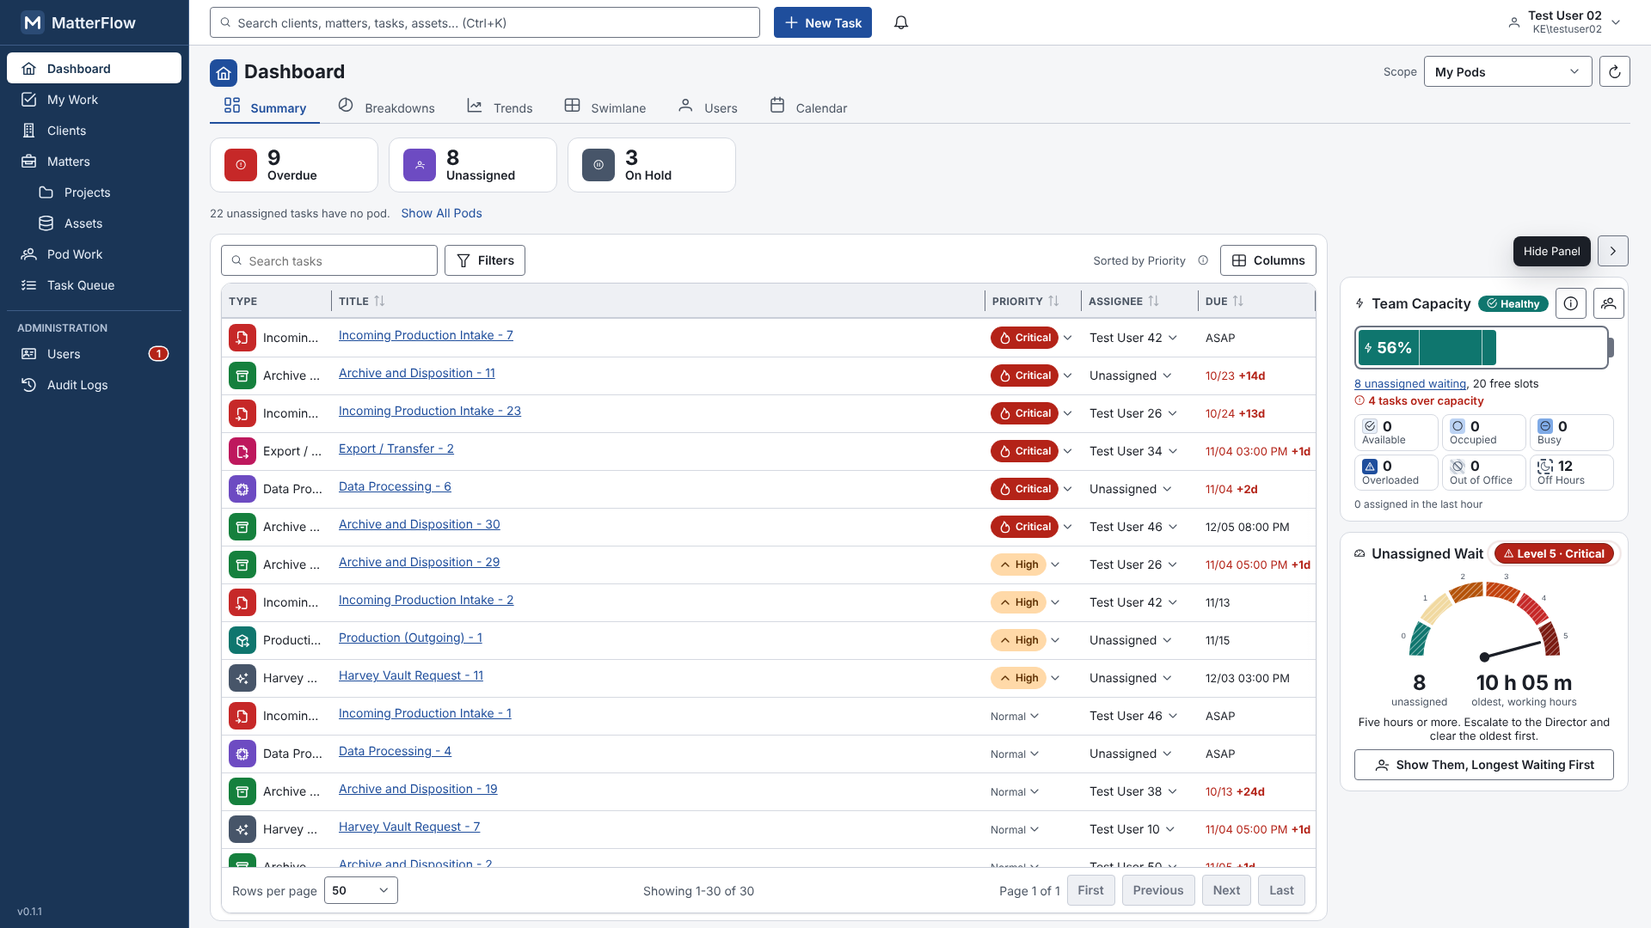
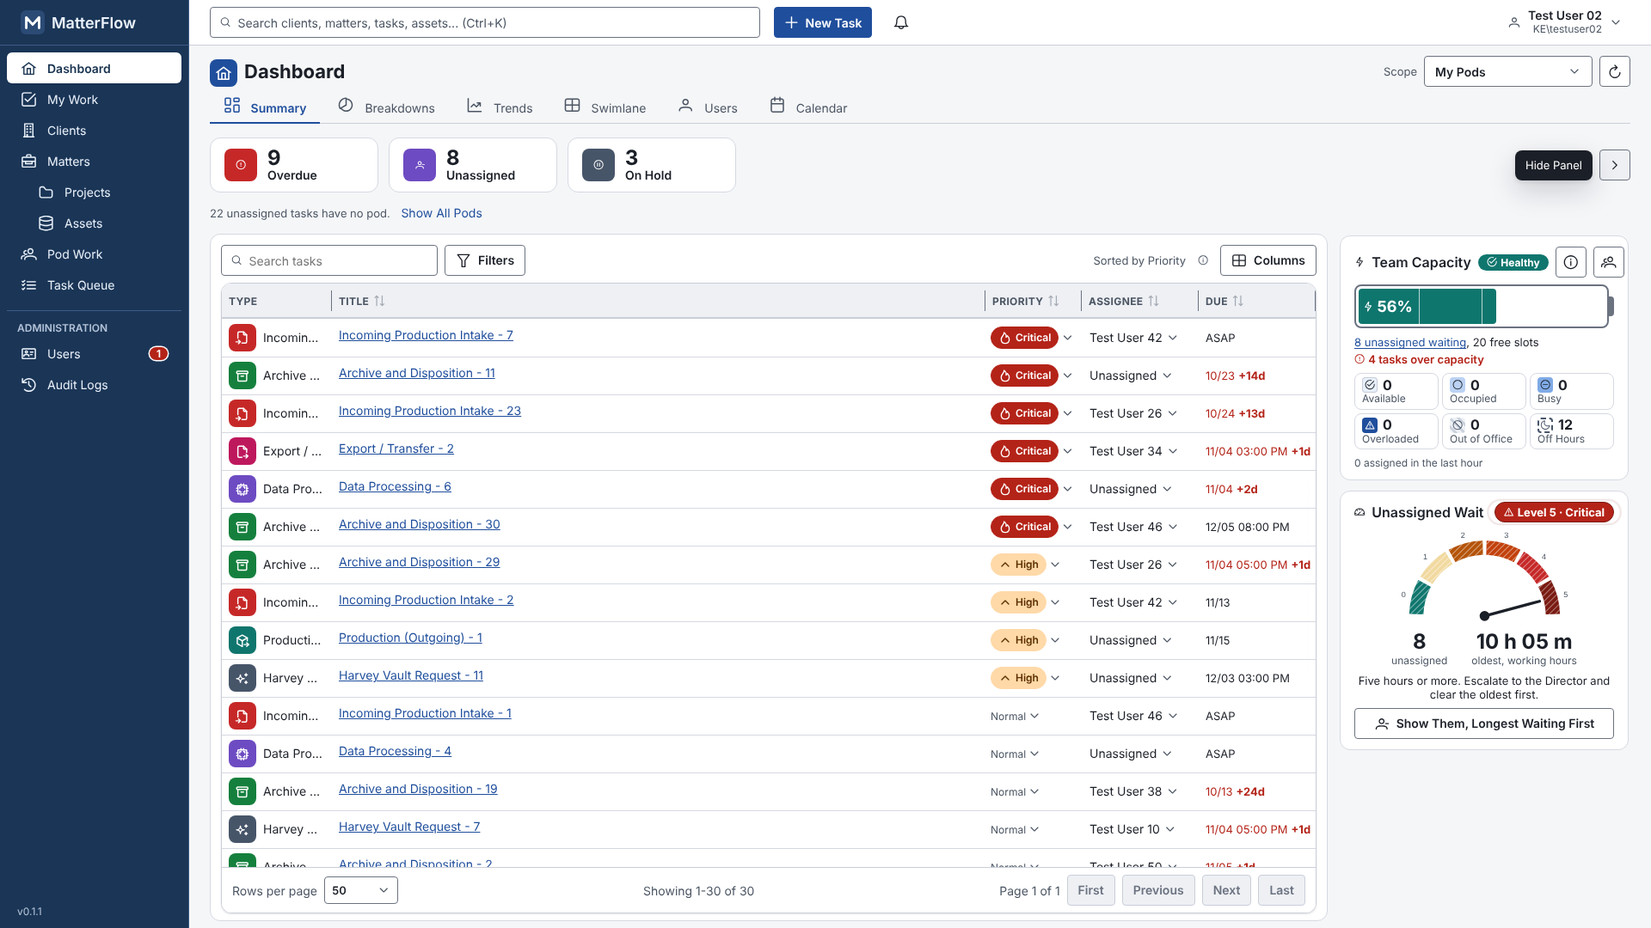
UI2 #1233 one Hide Panel / Show Panel button at the far right of the cards row (owner correction)
- Dashboard > Summary > cards row (Overdue, Unassigned, On Hold): the single Hide Panel / Show Panel icon button now sits at the far right end of this row, directly above the right column, and stays in exactly the same place in both states.
- Dashboard > Summary > right column (Team Capacity, Unassigned Wait): the second button inside the column is removed, so the column starts right under the cards row again.
- Dashboard > Summary > panel hidden: the compact battery and gauge sit on the cards row to the left of the button.
- Specs and the end-to-end test check that the button has the same position in both states; guideline D-46 and theme guide 11.4 updated; screenshots retaken.

Claude-Session: https://claude.ai/code/session_01GjQ3L6gEego4PwsSfbngaa

Changed region(s): [[0.8125, 0.2444, 1.0, 0.8556], [0.9062, 0.1528, 0.9688, 0.2139], [0.9688, 0.3667, 1.0, 0.3972]]

diff --git a/frontend/src/app/features/dashboard/summary/dash-summary-tab.ts b/frontend/src/app/features/dashboard/summary/dash-summary-tab.ts
@@ -1,9 +1,6 @@
 import {
   ChangeDetectionStrategy,
   Component,
-  ElementRef,
-  Injector,
-  afterNextRender,
   computed,
   inject,
   input,
@@ -24,7 +21,7 @@ import { DashV4Api } from './dash-v4-api';
 /**
  * The Summary tab of the Dashboard for anyone with Dashboard.ViewSummary (epic #1063, DB-03; the Technician's queue is the page's own view). Under the tabs: three Needs attention cards
  * that filter the grid; below, the task grid on the left (shared list standard) and a fixed-width right column with the capacity battery (Dashboard.ViewUsers) and the unassigned gauge
- * (Dashboard.ViewSummary). A Hide Panel icon button at the top right of that column hides it (#1233): the grid takes the full width and the compact battery and gauge sit on the right of the cards row, with a Show Panel button at the far end; the choice is remembered per user (`DashboardPrefs`). The page never scrolls on a desktop window; only the grid body and the right column do. Under 768 px (or on a very short window) it is one column: cards,
+ * (Dashboard.ViewSummary). ONE Hide Panel / Show Panel icon button at the far right of the cards row (it never moves) hides the column (#1233): the grid takes the full width and the compact battery and gauge sit on that row to the left of the button; the choice is remembered per user (`DashboardPrefs`). The page never scrolls on a desktop window; only the grid body and the right column do. Under 768 px (or on a very short window) it is one column: cards,
  * battery and gauge, then the tasks as cards. The page owns the data (it reads the summary and the Scope); this component draws it and reports what the person did.
  */
 @Component({
@@ -35,24 +32,31 @@ import { DashV4Api } from './dash-v4-api';
   template: `
     <div class="top" data-dash-top>
       <mf-dash-cards [counts]="counts()" [selected]="card()" (pick)="cardPick.emit($event)" />
-      @if (collapsed()) {
-        <div class="tright" data-dash-compact>
-          <mf-dash-compact
-            [capacity]="canUsers() ? capacity() : null"
-            [gauge]="gauge()"
-            (show)="showUnassigned()"
-          />
+      @if (showRight()) {
+        <div class="tright" data-dash-compact-row>
+          @if (collapsed()) {
+            <mf-dash-compact
+              data-dash-compact
+              [capacity]="canUsers() ? capacity() : null"
+              [gauge]="gauge()"
+              (show)="showUnassigned()"
+            />
+          }
           <button
             type="button"
             class="mf-btn mf-btn--icon"
-            data-panel-expand
-            aria-label="Show Panel"
-            mfTip="Show Panel"
+            data-panel-toggle
+            [attr.aria-label]="collapsed() ? 'Show Panel' : 'Hide Panel'"
+            [mfTip]="collapsed() ? 'Show Panel' : 'Hide Panel'"
             aria-controls="dash-rcol"
-            [attr.aria-expanded]="false"
-            (click)="setCollapsed(false)"
+            [attr.aria-expanded]="!collapsed()"
+            (click)="setCollapsed(!collapsed())"
           >
-            <i class="pi pi-chevron-left" aria-hidden="true"></i>
+            <i
+              class="pi"
+              [class]="collapsed() ? 'pi-chevron-left' : 'pi-chevron-right'"
+              aria-hidden="true"
+            ></i>
           </button>
         </div>
       }
@@ -81,20 +85,6 @@ import { DashV4Api } from './dash-v4-api';
       />
       @if (showRight()) {
         <div class="rcol" id="dash-rcol" [class.rcol--off]="collapsed()" data-dash-rcol>
-          <div class="rhd">
-            <button
-              type="button"
-              class="mf-btn mf-btn--icon"
-              data-panel-collapse
-              aria-label="Hide Panel"
-              mfTip="Hide Panel"
-              aria-controls="dash-rcol"
-              [attr.aria-expanded]="!collapsed()"
-              (click)="setCollapsed(true)"
-            >
-              <i class="pi pi-chevron-right" aria-hidden="true"></i>
-            </button>
-          </div>
           @if (canUsers()) {
             <mf-dash-battery
               [scope]="scope()"
@@ -141,11 +131,6 @@ import { DashV4Api } from './dash-v4-api';
     }
     .tright .mf-btn {
       flex: none;
-    }
-    .rhd {
-      display: flex;
-      flex: none;
-      justify-content: flex-end;
     }
     .rcol.rcol--off {
       display: none;
@@ -198,7 +183,6 @@ import { DashV4Api } from './dash-v4-api';
       .rcol.rcol--off {
         display: flex;
       }
-      .rhd,
       .tright {
         display: none;
       }
@@ -209,8 +193,6 @@ export class DashSummaryTab {
   private readonly auth = inject(AuthStore);
   private readonly v4 = inject(DashV4Api);
   private readonly prefs = inject(DashboardPrefs);
-  private readonly host = inject<ElementRef<HTMLElement>>(ElementRef);
-  private readonly injector = inject(Injector);
 
   readonly summary = input.required<DashboardSummary>();
   /** The page scope (`all`, `mine` or a pod id). */
@@ -247,16 +229,9 @@ export class DashSummaryTab {
     this.prefs.ensureLoaded();
   }
 
-  /** Hide or show the right panel; focus follows to the other button, because the one that was pressed is gone. */
+  /** Hide or show the right panel. The one toggle button stays where it is (same element), so focus stays on it. */
   protected setCollapsed(collapsed: boolean): void {
     this.prefs.setPanelCollapsed(collapsed);
-    afterNextRender(
-      () =>
-        this.host.nativeElement
-          .querySelector<HTMLElement>(collapsed ? '[data-panel-expand]' : '[data-panel-collapse]')
-          ?.focus(),
-      { injector: this.injector },
-    );
   }
 
   protected showAll(event: Event): void {

diff --git a/frontend/src/app/features/dashboard/pages/dashboard-page.spec.ts b/frontend/src/app/features/dashboard/pages/dashboard-page.spec.ts
@@ -429,33 +429,34 @@ describe('DashboardPage', () => {
     });
 
     describe('the right panel can be hidden (#1233)', () => {
-      const hide = (el: HTMLElement) =>
-        el.querySelector<HTMLButtonElement>('[data-panel-collapse]')!;
-      const show = (el: HTMLElement) => el.querySelector<HTMLButtonElement>('[data-panel-expand]');
+      const toggle = (el: HTMLElement) =>
+        el.querySelector<HTMLButtonElement>('[data-panel-toggle]')!;
       const rcol = (el: HTMLElement) => el.querySelector<HTMLElement>('[data-dash-rcol]')!;
 
-      it('starts shown: a Hide Panel icon button at the top of the column with aria-expanded and aria-controls, and no compact widgets', async () => {
+      it('starts shown: one Hide Panel icon button at the end of the cards row with aria-expanded and aria-controls, and no compact widgets', async () => {
         const el = await open();
-        const b = hide(el);
+        const b = toggle(el);
         expect(b.getAttribute('aria-label')).toBe('Hide Panel');
         expect(b.getAttribute('aria-expanded')).toBe('true');
         expect(b.getAttribute('aria-controls')).toBe(rcol(el).id);
-        expect(rcol(el).contains(b)).toBe(true);
+        expect(el.querySelector('[data-dash-top]')!.contains(b)).toBe(true);
+        expect(rcol(el).contains(b)).toBe(false);
+        expect(el.querySelectorAll('[data-panel-toggle]').length).toBe(1);
         expect(rcol(el).classList.contains('rcol--off')).toBe(false);
         expect(el.querySelector('[data-dash-compact]')).toBeNull();
-        expect(show(el)).toBeNull();
       });
 
-      it('hides the column, shows the compact battery and gauge with Show Panel on the cards row, and shows it again', async () => {
+      it('hides the column, shows the compact battery and gauge on the cards row left of the same button, and shows it again', async () => {
         const el = await open();
-        hide(el).click();
+        const b = toggle(el);
+        b.click();
         await settle();
         expect(rcol(el).classList.contains('rcol--off')).toBe(true);
         const row = el.querySelector('[data-dash-top]')!;
         expect(row.querySelector('[data-dash-cards]')).not.toBeNull();
         expect(row.querySelector('[data-compact-battery]')).not.toBeNull();
         expect(row.querySelector('[data-compact-gauge]')).not.toBeNull();
-        const b = show(el)!;
+        expect(toggle(el)).toBe(b);
         expect(b.getAttribute('aria-label')).toBe('Show Panel');
         expect(b.getAttribute('aria-expanded')).toBe('false');
         expect(b.getAttribute('aria-controls')).toBe(rcol(el).id);
@@ -463,38 +464,27 @@ describe('DashboardPage', () => {
         await settle();
         expect(rcol(el).classList.contains('rcol--off')).toBe(false);
         expect(el.querySelector('[data-dash-compact]')).toBeNull();
+        expect(b.getAttribute('aria-label')).toBe('Hide Panel');
       });
 
       it('remembers the choice per user in the existing Dashboard preference entry, and keeps the period there', async () => {
         const el = await open();
-        hide(el).click();
+        toggle(el).click();
         await settle();
         const key = Object.keys(localStorage).find((k) => k.startsWith('mf.dashboard.v2.'))!;
         expect(JSON.parse(localStorage.getItem(key)!)).toMatchObject({ panelCollapsed: true });
         TestBed.resetTestingModule();
         const again = await open();
         expect(rcol(again).classList.contains('rcol--off')).toBe(true);
-        expect(show(again)).not.toBeNull();
-        show(again)!.click();
+        expect(toggle(again).getAttribute('aria-label')).toBe('Show Panel');
+        toggle(again).click();
         await settle();
         expect(JSON.parse(localStorage.getItem(key)!)).not.toHaveProperty('panelCollapsed');
       });
 
-      it('moves focus to the other button, because the pressed one is gone', async () => {
-        const el = await open();
-        document.body.appendChild(el);
-        hide(el).click();
-        await settle();
-        expect(document.activeElement).toBe(show(el));
-        show(el)!.click();
-        await settle();
-        expect(document.activeElement).toBe(hide(el));
-        el.remove();
-      });
-
       it('the compact gauge does what the full gauge does: selects the Unassigned card, longest waiting first', async () => {
         const el = await open();
-        hide(el).click();
+        toggle(el).click();
         await settle();
         el.querySelector<HTMLButtonElement>('[data-compact-gauge]')!.click();
         await settle();
@@ -509,7 +499,7 @@ describe('DashboardPage', () => {
           'Dashboard.View',
           'Dashboard.ViewSummary',
         ]);
-        hide(el).click();
+        toggle(el).click();
         await settle();
         expect(el.querySelector('[data-compact-battery]')).toBeNull();
         expect(el.querySelector('[data-compact-gauge]')).not.toBeNull();

diff --git a/frontend/e2e/tests/dashboard-v4-summary.spec.ts b/frontend/e2e/tests/dashboard-v4-summary.spec.ts
@@ -220,12 +220,17 @@ test.describe('Summary v4', () => {
       await page.goto('/dashboard');
       const hide = page.getByRole('button', { name: 'Hide Panel', exact: true });
       await expect(hide).toHaveAttribute('aria-expanded', 'true');
+      const where = (await hide.boundingBox())!;
       await expect(page.locator('[data-dash-compact]')).toHaveCount(0);
       const shown = (await page.locator('mf-dash-grid').boundingBox())!.width;
       await hide.click();
       const expand = page.getByRole('button', { name: 'Show Panel', exact: true });
       await expect(expand).toHaveAttribute('aria-expanded', 'false');
       await expect(expand).toBeFocused();
+      // One button, one place: the same x and y in both states, at the far right of the cards row.
+      const moved = (await expand.boundingBox())!;
+      expect(Math.abs(moved.x - where.x)).toBeLessThanOrEqual(1);
+      expect(Math.abs(moved.y - where.y)).toBeLessThanOrEqual(1);
       await expect(page.locator('[data-dash-rcol]')).toBeHidden();
       await expect(page.locator('[data-compact-battery]')).toBeVisible();
       await expect(page.locator('[data-compact-gauge]')).toBeVisible();

diff --git a/docs/ux/theme-guide.md b/docs/ux/theme-guide.md
@@ -453,7 +453,7 @@ Rows per page 50   Showing 1-50 of 143   Page 1 of 3               |  8 of 12 ca
 | Type cell | the standard `type` column of `mf-task-table` | The same chip and type name as every task list (DB-10). |
 | Due cell | `mf-due-suffix-cell` (`shared/work-queue/due-suffix.ts`) | The numeric date (`NUMERIC_DATE`, `MM/DD hh:mm AM/PM`) and, only while overdue, a bold red suffix on the SAME line: `+9d` (days), `+7h` (under a day), `+<1h`. Today, tomorrow and later have no suffix. The words ("9 days overdue") are in the tooltip and in the accessible name, so red is never the only signal. The maths is the shared Due logic (`describeDueCell`). |
 | Assign cell | the Assignee column's `mf-row-edit` | An unassigned task shows "Unassigned" with the chevron, like an assigned row: the whole cell is the one control (accessible name "Unassigned: assign this task") and opens the shared assignee menu (`showStates`), which lists each person with the state icon and word and the load ("Busy, 2 open"). Without Task.Assign it is plain text. 409: "This task was changed by someone else. The row was reloaded." After a successful assign the row leaves the Unassigned view, focus moves to the next row, and the cards, gauge and battery are read again. |
-| Right panel collapse (#1233) | `mf-dash-summary` (`summary/dash-summary-tab.ts`), `mf-dash-compact` (`summary/dash-compact.ts`) | A **Hide Panel** icon button (`mf-btn mf-btn--icon`, chevron right, tooltip "Hide Panel", `aria-expanded`, `aria-controls="dash-rcol"`) is the first row of the right column. Hidden: the column is `display: none`, the grid is full width, and `mf-dash-compact` (compact battery 112 x 36 px with the remaining % and bolt, "N free slots", red "N over" only above zero; compact gauge 64 x 40 px with the level number, the level chip in the gauge's colour kinds (`gauge-level-css.ts`, shared with `mf-dash-gauge`) and the oldest wait) sits right aligned on the cards row with a **Show Panel** icon button (chevron left) at the far right. The cards row is the container `top`: under 1260 px the gauge chip loses its words, under 1060 px the battery its "free slots" text. The state is `DashboardPrefs.panelCollapsed` (per user, same stored entry as the period). The data is the full battery's last read and the summary's gauge block: no new request. |
+| Right panel collapse (#1233) | `mf-dash-summary` (`summary/dash-summary-tab.ts`), `mf-dash-compact` (`summary/dash-compact.ts`) | ONE icon button (`mf-btn mf-btn--icon`, `data-panel-toggle`, chevron right = **Hide Panel**, chevron left = **Show Panel**, tooltip and name follow the state, `aria-expanded`, `aria-controls="dash-rcol"`) at the far right of the cards row; it keeps the same x and y in both states. Hidden: the column is `display: none`, the grid is full width, and `mf-dash-compact` (compact battery 112 x 36 px with the remaining % and bolt, "N free slots", red "N over" only above zero; compact gauge 64 x 40 px with the level number, the level chip in the gauge's colour kinds (`gauge-level-css.ts`, shared with `mf-dash-gauge`) and the oldest wait) sits right aligned on the cards row, left of the button. The cards row is the container `top`: under 1260 px the gauge chip loses its words, under 1060 px the battery its "free slots" text. The state is `DashboardPrefs.panelCollapsed` (per user, same stored entry as the period). The data is the full battery's last read and the summary's gauge block: no new request. |
 | Capacity battery | `mf-dash-battery` (`summary/dash-battery.ts`) | ONE department indicator that shows the REMAINING capacity (DB-12, #1086): the fill and the number are the API's `freePercent`, so a full battery means plenty of free capacity. The percentage sits INSIDE the battery, as plain text without a ring next to a bolt icon, on a battery 51 px high (no separate big line; under 28 percent the number sits just after the short fill in the normal text colour). The People button is an icon-only button (`aria-label` and tooltip "People") on the title row, after the status chip and the info button. The status word chip beside the title and its icon change with the level: Healthy (50% and more, `pi-check-circle`), Watch (30 to 49, `pi-eye`), Low (10 to 29, `pi-exclamation-triangle`), Critical (under 10, `pi-times-circle`). The colour steps at 50, 40, 30, 20 and 10 percent: `--mf-rem-0..5` (teal, yellow-green, amber, orange, red, dark red, each with a `-fg` text colour; the number on the fill and the word chip use the pair, contrast checked in `check-theme-contrast.mjs`). The battery is an image named "Remaining capacity NN percent. 8 of 12 can take work now. Healthy." and its tooltip is "Remaining capacity NN%" plus the formula ("Remaining capacity = free slots / (3 x people who are at work) ...", with the sentence about the setting). Neutral states show the state word inside a hatched battery without a percentage: "Everyone out", "Holiday", "No workers", and "After hours" ONLY when the setting "Count people outside work hours as available" is off (DB-16 #1103, decision AV: by default people who are only outside their work hours count, so the battery shows a percentage in the evening and at the weekend). Below: the summary line "9 unassigned waiting, 12 free slots" (the waiting part is a button that selects the Unassigned card; it is hidden when the caller may not see unassigned counts), a red line with an icon "N tasks over capacity" only above 0 (tasks above the slot count, so slack elsewhere never hides an overload), a legend of six states with icon, count and words, a rate hint "N assigned in the last hour" (hidden when absent), an info button with the formula. People opens `mf-dash-people` (dialog, search, grouped by state, scrollable, up to 200, read only when it opens). Needs Dashboard.ViewUsers. |
 | Unassigned gauge | `mf-dash-gauge` (`summary/dash-gauge.ts`) | Design A: a half circle with the scale 0 to 5 (numbers on the segments, stripe pattern on the segments up to the level), the needle, the level badge ("Level 3 . High", "Normal", "All clear"), the count, the age of the oldest unassigned task ("2 h 48 m, oldest, working hours") and one "what to do" line. The level is the server's. The visual and the button "Show them, longest waiting first" select the Unassigned card and reset the sort. `aria-live="polite"` speaks only when the level changes. Levels 4 and 5 pulse softly; `prefers-reduced-motion` removes the pulse and the needle's movement. The page reads the summary again every minute while the gauge is on screen. Needs Dashboard.ViewSummary. |
 | Tokens | `--mf-cap-0..3` (+ `-fg`), `--mf-wait-0..5` in `docs/ux/tokens.css` | The capacity ramp reuses the heat-map blues; the wait ramp uses the teal, amber, orange and red solids. Contrast of the text-on-fill and graphic pairs is in `scripts/check-theme-contrast.mjs`. |

diff --git a/docs/ux/design-guidelines.md b/docs/ux/design-guidelines.md
@@ -108,7 +108,7 @@ Each rule: **Do** exactly this; **Don't** the listed things; **Ref** the page or
 
 **D-45 Truncation.** Names one line with ellipsis plus tooltip; descriptions two lines; toolbar text fits at 1366 ("Sorted by Load", "Search by name"). A chip or a fixed word (Status, Priority, a count) is never cut: its column is wide enough (Status 140, Priority 112; a cell with an inline editor keeps 4 px side padding). The Type column of every task grid is the shared `mf-task-type-cell`: chip, name beside it on one line, ellipsis when narrow, tooltip with the full name; the column is 128 px by default (#1237) and the tile shows alone only below about 100 px of cell. The Progress cell is the thin bar plus the short "2 of 5" (step name in the tooltip); every global task list hides Matter Name, Project and Progress by default (D-43a) and the Pod Work Assignee column is 160 px with the "Assign to me" icon button at the right end (#1227). A Matter or Project Tasks tab hides Progress by default (Columns menu) so Status and Priority are whole at 1366 (#1154).
 
-**D-46 Dashboard > Summary layout, right panel (#1233).** Under the tabs: the Needs Attention cards, then the task grid on the left and the right column (Team Capacity and Unassigned Wait, 340 px) on the right. The first row of the column is a **Hide Panel** icon button (chevron right, 36 px button, 18 px icon, shared icon-button style, tooltip "Hide Panel", `aria-expanded` and `aria-controls` the column). Pressing it hides the column and the grid takes the full width (no animation under reduced motion). Hidden state: the cards row carries, right aligned and centred with the cards, the **compact battery** (about 112 x 36 px: remaining % and the bolt inside, same colour steps and neutral words as the full battery, then "50 free slots" and a red "7 over" only above zero; its tooltip is the whole Team Capacity summary; not a button) and the **compact gauge** (64 x 40 px half circle with the level number, the level chip with icon and words in the full gauge's colour kinds, the oldest wait; a click or Enter selects the Unassigned card longest waiting first; tooltip is the full description; `aria-live="polite"` only when the level changes), then the **Show Panel** icon button (chevron left, same pattern) at the far right. In a narrower row the gauge chip words go first, then the battery's "free slots" text (container query on the row); the row never wraps or overflows. Permissions: battery needs Dashboard.ViewUsers, gauge Dashboard.ViewSummary; a person who sees neither (Technician) gets no control. The choice is remembered per user in the Dashboard preference entry (`mf.dashboard.v2.<user>`, `panelCollapsed`); default is shown; focus moves to the other button. Under 768 px the page is one column and the panel is always shown. No keyboard shortcut (#420).
+**D-46 Dashboard > Summary layout, right panel (#1233, owner correction).** Under the tabs: the Needs Attention cards, then the task grid on the left and the right column (Team Capacity and Unassigned Wait, 340 px) on the right. ONE icon button, **Hide Panel** / **Show Panel** (chevron right / left, 36 px button, 18 px icon, shared icon-button style, tooltip and accessible name change with the state, `aria-expanded`, `aria-controls` the column), sits at the far right end of the row of the three cards, directly above the column, and never moves: same x and y in both states, no second button inside the column. Pressing it hides the column and the grid takes the full width. Hidden state: on that same row, to the LEFT of the button, right aligned, centred with the cards: the **compact battery** (about 112 x 36 px: remaining % and the bolt inside, same colour steps and neutral words as the full battery, then "50 free slots" and a red "7 over" only above zero; its tooltip is the whole Team Capacity summary; not a button) and the **compact gauge** (64 x 40 px half circle with the level number, the level chip with icon and words in the full gauge's colour kinds, the oldest wait; a click or Enter selects the Unassigned card longest waiting first; tooltip is the full description; `aria-live="polite"` only when the level changes). In a narrower row the gauge chip words go first, then the battery's "free slots" text (container query on the row); the row never wraps or overflows. Permissions: battery needs Dashboard.ViewUsers, gauge Dashboard.ViewSummary; a person who sees neither (Technician) gets no button. The choice is remembered per user in the Dashboard preference entry (`mf.dashboard.v2.<user>`, `panelCollapsed`); default is shown. Under 768 px the page is one column and the panel is always shown. No keyboard shortcut (#420).
 
 **D-47 Record not found.** The state-page card (D-53) in the shell with the breadcrumb above and one `Go to <List>` button.
 
